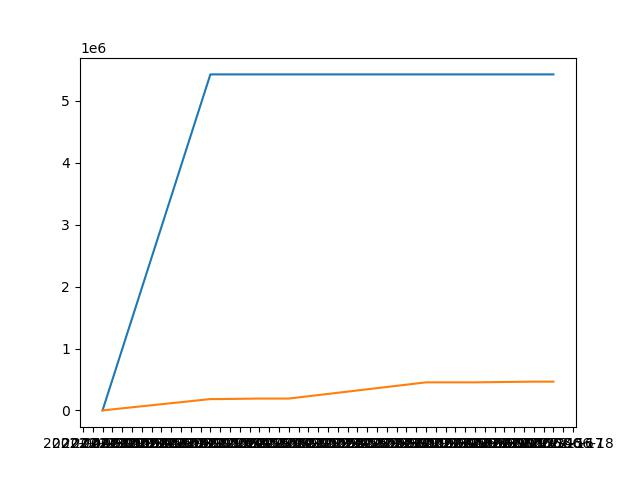
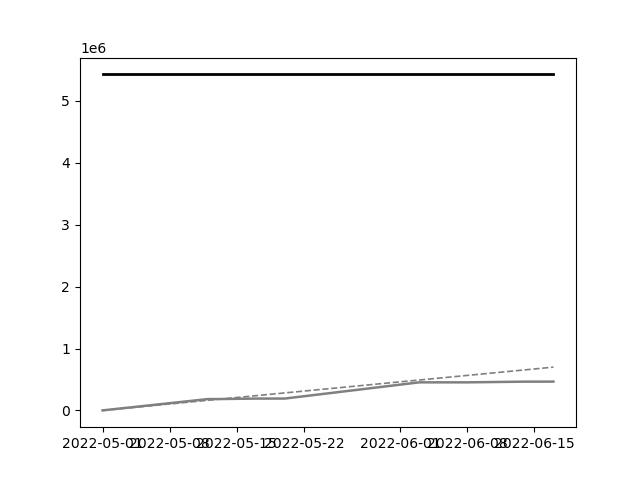
improved script

diff --git a/plot_conso.py b/plot_conso.py
@@ -27,9 +27,12 @@ f.close()
 
 #xdates=np.datetime64(dates)
 xdates = [datetime.datetime.strptime(d,"%Y-%m-%d").date() for d in dates]
-print(dates)
-print(xdates)
-print(conso_groupe)
+
+d0=datetime.datetime.strptime('2022-05-01',"%Y-%m-%d").date()
+nb_day_alloc=np.zeros((Nline))
+for kdate in np.arange(Nline):
+  delta=xdates[kdate]-d0
+  nb_day_alloc[kdate] = delta.days
 
 #-------------------------------------------------
 
@@ -39,11 +42,12 @@ fig, ax = plt.subplots()
 formatter = mdates.DateFormatter("%Y-%m-%d")
 ax.xaxis.set_major_formatter(formatter)
 
-locator = mdates.DayLocator()
-ax.xaxis.set_major_locator(locator)
+#locator = mdates.DayLocator()
+#ax.xaxis.set_major_locator(locator)
 
-plt.plot(xdates,alloc_groupe)
-plt.plot(xdates,conso_groupe)
+plt.plot(xdates,alloc_groupe,color='k',linewidth=2.0)
+plt.plot(xdates,alloc_groupe*nb_day_alloc/365.,'--',color='grey',linewidth=1.2)
+plt.plot(xdates,conso_groupe,color='grey',linewidth=1.8)
 
 
 #-------------------------------------------------
